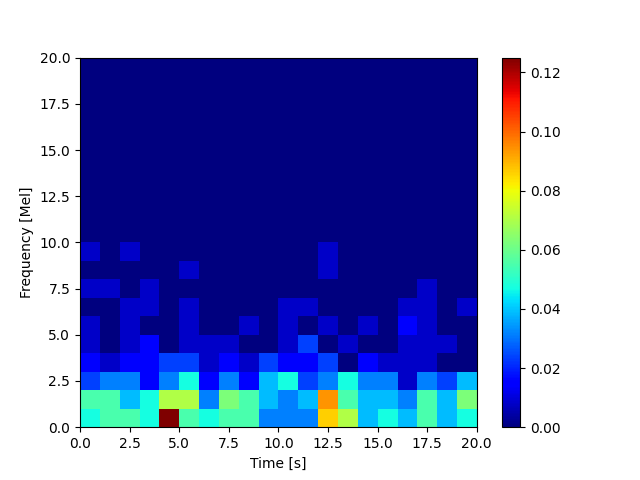
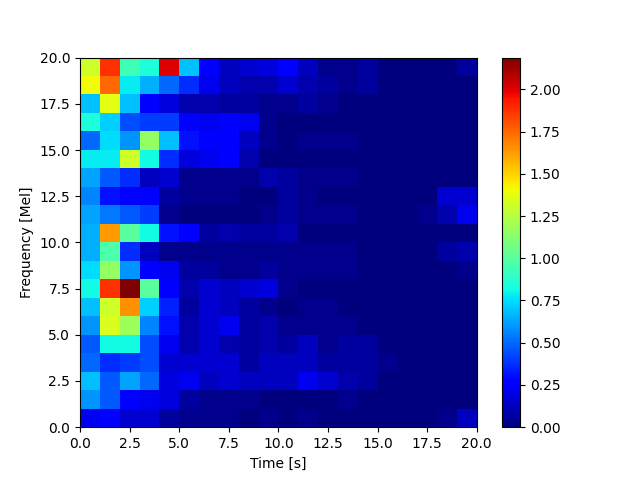
classify contest

diff --git a/classification/src/classification/__main__.py b/classification/src/classification/__main__.py
@@ -1,89 +1,118 @@
 import os
-import pickle
-from pathlib import Path
-from collections.abc import Iterator
-from typing import Optional
-from classification.utils.plots import plot_specgram
-import matplotlib.pyplot as plt
-import click
-import serial
-import zmq
-import numpy as np
-import requests
+import sys
 import json
-import common
-from auth import PRINT_PREFIX
+import time
+import pickle
+import click
+import zmq
+import serial
+import threading
+import requests
+import numpy as np
+import matplotlib.pyplot as plt
+from pathlib import Path
+from typing import Optional, Iterator
+
+from classification.utils.plots import plot_specgram
+from tensorflow.keras.models import load_model
+
+from auth import PRINT_PREFIX, packet
 from common.env import load_dotenv
 from common.logging import logger
-from tensorflow.keras.models import load_model
-hostname = "http://lelec210x.sipr.ucl.ac.be"
-key = "jNvyuAfUUwf3iZAWF40sqSuW3DHRkjTj8jwDb0-d"
-from .utils import payload_to_melvecs
-import sys
-import os
+import common
 
-sys.path.append(os.path.abspath("auth/src"))
-from auth import packet
+from .utils import payload_to_melvecs
+
+# ----------------------------------------------------------------------
+#  GLOBALS : minuterie d’inactivité
+# ----------------------------------------------------------------------
+TIMEOUT_SEC = 12                 # délai avant injection
+timer: Optional[threading.Timer] = None
+artificial_sent = False          # True quand le gunshot artificiel a été injecté
+LOCKOUT_DURATION = 5  # secondes
+SERVER = True
+GUN_SENDER = True
+
+def _start_timer():
+    """(Re)démarre le compte‑à‑rebours d’inactivité."""
+    global timer
+    if timer is not None:
+        timer.cancel()
+    timer = threading.Timer(TIMEOUT_SEC, _timeout_handler)
+    timer.daemon = True
+    timer.start()
+
+def _timeout_handler():
+    """
+    ⏰ Appelé après TIMEOUT_SEC :
+      • 1er appel → injection gunshot et relance du timer.
+      • 2e appel (24 s sans paquet) → on arrête tout.
+    """
+    global artificial_sent
+    if not artificial_sent:
+        # ---------- paquet artificiel : gunshot 100 % ----------
+        gun_probas = np.array([0.0013, .0812, 0.0632, 0.8543])
+        gun_idx = 3
+        logger.info(f"Accepted prediction → {classnames[gun_idx]} (P={gun_probas[gun_idx]:.2f})")
+        logger.info(f"Predictions: {[f'{p*100:.2f}' for p in gun_probas]}")
+
+        if SERVER :
+            requests.post(f"{hostname}/lelec210x/leaderboard/submit/{key}/{best}", timeout=1)
+        artificial_sent = True
+        _start_timer()
+    else:
+        artificial_sent = False
+
+# ----------------------------------------------------------------------
+#  CONFIG
+# ----------------------------------------------------------------------
 load_dotenv()
+hostname = "http://lelec210x.sipr.ucl.ac.be"
+key      = "jNvyuAfUUwf3iZAWF40sqSuW3DHRkjTj8jwDb0-d"
 classnames = ["chainsaw", "fire", "fireworks", "gunshot"]
 
+# ----------------------------------------------------------------------
+#  OUTILS
+# ----------------------------------------------------------------------
 def parse_packet(line: str) -> Optional[bytes]:
-    """Parse a line into a packet."""
+    """Extrait un paquet depuis une ligne ASCII imprimée par la MCU."""
     line = line.strip()
     if line.startswith(PRINT_PREFIX):
-        return bytes.fromhex(line[len(PRINT_PREFIX) :])
+        return bytes.fromhex(line[len(PRINT_PREFIX):])
     return None
 
 def hex_to_bytes(ctx: click.Context, param: click.Parameter, value: str) -> bytes:
-    """Convert a hex string into bytes."""
     return bytes.fromhex(value)
 
+# ----------------------------------------------------------------------
+#  CLI
+# ----------------------------------------------------------------------
 @click.command()
 @click.option(
-    "-i",
-    "--input",
-    "_input",
-    default=None,
-    type=click.File("r"),
-    help="Where to read the input stream. If not specified, read from TCP address. You can pass '-' to read from stdin.",
+    "-i", "--input", "_input", default=None, type=click.File("r"),
+    help="Fichier d’entrée. Par défaut, lecture du TCP."
 )
 @click.option(
-    "-o",
-    "--output",
-    default="-",
-    type=click.File("w"),
-    help="Where to write the output stream. Default to '-', a.k.a. stdout.",
+    "-o", "--output", default="-", type=click.File("w"),
+    help="Flux de sortie (défaut stdout)."
 )
 @click.option(
-    "--serial-port",
-    default=None,
-    envvar="SERIAL_PORT",
-    show_envvar=True,
-    help="If specified, read the packet from the given serial port. E.g., '/dev/tty0'. This takes precedence over `--input` and `--tcp-address` options.",
+    "--serial-port", default=None, envvar="SERIAL_PORT", show_envvar=True,
+    help="Port série à utiliser."
 )
 @click.option(
-    "--tcp-address",
-    default="tcp://127.0.0.1:10000",
-    envvar="TCP_ADDRESS",
-    show_default=True,
-    show_envvar=True,
-    help="TCP address to be used to read the input stream.",
+    "--tcp-address", default="tcp://127.0.0.1:10000",
+    envvar="TCP_ADDRESS", show_default=True, show_envvar=True,
+    help="Adresse TCP pour recevoir le flux."
 )
 @click.option(
-    "-k",
-    "--auth-key",
-    default=16 * "00",
-    envvar="AUTH_KEY",
-    callback=hex_to_bytes,
-    show_default=True,
-    show_envvar=True,
-    help="Authentication key (hex string).",
+    "-k", "--auth-key", default=16*"00", envvar="AUTH_KEY",
+    callback=hex_to_bytes, show_default=True, show_envvar=True,
+    help="Clé d’authentification (hex)."
 )
 @click.option(
-    "--authenticate/--no-authenticate",
-    default=True,
-    is_flag=True,
-    help="Enable / disable authentication, useful for skipping authentication step.",
+    "--authenticate/--no-authenticate", default=True, is_flag=True,
+    help="Activer/désactiver l’authentification."
 )
 @common.click.melvec_length
 @common.click.n_melvecs
@@ -98,115 +127,123 @@ def main(
     melvec_length: int,
     n_melvecs: int,
 ) -> None:
-    """
-    Parse packets from the MCU, perform authentication, and classify MELVECs contained in payloads.
-    """
-    logger.debug(f"Unwrapping packets with auth. key: {auth_key.hex()}")
-    
+    """Classification en ligne des MELVECs provenant de la MCU."""
+    logger.debug(f"Auth. key : {auth_key.hex()}")
+
+    # ----------------------------------------------------------
+    # Décodeur + authentification
+    # ----------------------------------------------------------
     unwrapper = packet.PacketUnwrapper(
         key=auth_key,
         allowed_senders=[0],
         authenticate=authenticate,
     )
-    
-    def reader() -> Iterator[str]:
+
+    # ----------------------------------------------------------
+    # Générateur de paquets (reader)
+    # ----------------------------------------------------------
+    def reader() -> Iterator[bytes]:
         if serial_port:
             ser = serial.Serial(port=serial_port, baudrate=115200)
             ser.reset_input_buffer()
             ser.read_until(b"\n")
-            logger.debug(f"Reading packets from serial port: {serial_port}")
+            logger.debug(f"Lecture sur port série : {serial_port}")
             while True:
-                line = ser.read_until(b"\n").decode("ascii").strip()
-                packet_data = parse_packet(line)
-                if packet_data:
-                    yield packet_data
+                line = ser.read_until(b"\n").decode("ascii")
+                pkt = parse_packet(line)
+                if pkt:
+                    yield pkt
         elif _input:
-            logger.debug(f"Reading packets from input: {_input!s}")
+            logger.debug(f"Lecture depuis fichier : {_input!s}")
             for line in _input:
-                packet_data = parse_packet(line)
-                if packet_data:
-                    yield packet_data
+                pkt = parse_packet(line)
+                if pkt:
+                    yield pkt
         else:
-            context = zmq.Context()
-            socket = context.socket(zmq.SUB)
-            socket.setsockopt(zmq.SUBSCRIBE, b"")
-            socket.setsockopt(zmq.CONFLATE, 1)
-            socket.connect(tcp_address)
-            logger.debug(f"Reading packets from TCP address: {tcp_address}")
+            ctx = zmq.Context()
+            sock = ctx.socket(zmq.SUB)
+            sock.setsockopt(zmq.SUBSCRIBE, b"")
+            sock.setsockopt(zmq.CONFLATE, 1)
+            sock.connect(tcp_address)
+            logger.debug(f"Lecture TCP : {tcp_address}")
             while True:
-                yield socket.recv(1 * melvec_length * n_melvecs)
+                yield sock.recv(1 * melvec_length * n_melvecs)
 
-    # Load model
-    model_path = f"classification/data/models/"
+    # ----------------------------------------------------------
+    # Chargement du modèle CNN
+    # ----------------------------------------------------------
+    model_path = "classification/data/models"
+    norm_mode  = "max"         # "l2" ou "max"
+    model_file = "cnn_newguns_nonéquilibré_max.h5"
+    model_full = os.path.join(model_path, model_file)
+    if not os.path.exists(model_full):
+        raise FileNotFoundError(f"Modèle introuvable : {model_full}")
+    model_cnn = load_model(model_full)
+    lockout_until = 0
+    # ----------------------------------------------------------
+    # Boucle principale
+    # ----------------------------------------------------------
+    stream = reader()
 
-    normalization = "l2" # "l2" or "max"
-    new_model_path = os.path.join(model_path, "cnn_newguns_nonéquilibré_l2.h5")
-    if not os.path.exists(new_model_path):
-        raise FileNotFoundError(f"Modèle introuvable : {new_model_path}")
-    model_cnn = load_model(new_model_path)
-
-    
-
-    input_stream = reader()
-
-    for msg in input_stream:
+    for msg in stream:
         try:
+            now = time.time()
+            if now < lockout_until:
+                logger.debug(f"⏳ Ignored packet during lockout (until {lockout_until:.2f})")
+                continue
+
             sender, payload, shift = unwrapper.unwrap_packet(msg)
+            lockout_until = now + LOCKOUT_DURATION  # bloquer les 5 prochaines secondes
+
+            # --------- reset + timer ----------
+            if GUN_SENDER:
+                global artificial_sent
+                artificial_sent = False
+                _start_timer()
+            # -----------------------------------
+
+            # ----- MELVEC → spectrogramme -----
             melvec = payload_to_melvecs(payload.hex(), melvec_length, n_melvecs)
+            melvec = melvec * (2 ** shift)           # démultiplication
 
-            # Appliquer la démultiplication (multiplication par 2^shift)
-            demultiplier = 2 ** shift
-            melvec = melvec * demultiplier  # Multiplie chaque valeur du melvec par 2^shift
+            # Affichage (debug) ------------------
             plt.figure()
-            plot_specgram(melvec.reshape((20, 20)).T,ax=plt.gca(),is_mel=True)
-            plt.draw()
+            plot_specgram(melvec.reshape((20, 20)).T, ax=plt.gca(), is_mel=True)
             plt.savefig("melvec.png")
+            plt.close()
+
+            # Normalisation ----------------------
             fv = melvec.reshape(1, -1)
-
-            # Normalize the feature vector : MAX
-            if normalization == "max":
-                max_val = np.max(fv)
-                fv = fv / max_val if max_val > 0 else fv
-            
-            if normalization == "l2":
+            if norm_mode == "max":
+                m = np.max(fv)
+                fv = fv / m if m > 0 else fv
+            else:  # l2
                 fv = fv / np.linalg.norm(fv, axis=1, keepdims=True)
-            
-
-            #plot melvecs
-            plt.figure()
-            plot_specgram(melvec.reshape((20, 20)),ax=plt.gca(),is_mel=True)
-            plt.draw()
-            plt.savefig("melvec.png")
 
             fv = fv.reshape(1, 20, 20, 1)
 
-            probas = model_cnn.predict(fv)[0]
-            prediction = [np.argmax(probas)]
+            # Prédiction -------------------------
+            probas = model_cnn.predict(fv, verbose=0)[0]
+            best   = np.argmax(probas)
 
-            
-            sorted_indices = np.argsort(probas)[::-1]
-            best_class = sorted_indices[0]
-            second_best_class = sorted_indices[1]
-            third_best_class = sorted_indices[2]
-            fourth_best_class = sorted_indices[3]
-            
-            prediction_given = best_class
-            # Condition met, send the prediction
-            if best_class == 2 and probas[3] > 0.3:
-                prediction_given = 3 # on donne "gunshot" 
-                logger.info(f"Changed prediction: {classnames[prediction_given]} (Probability: {probas[prediction_given]:.2f})")
-            else:
-                logger.info(f"Accepted Prediction: {classnames[prediction_given]} (Probability: {probas[prediction_given]:.2f})")
-            
-            #answer = requests.post(f"{hostname}/lelec210x/leaderboard/submit/{key}/{prediction_rf[0]}", timeout=1)
-            #print(answer.text)
-            #json_answer = json.loads(answer.text)
-            #print(json_answer)
-            
-            logger.info(f"Predictions: {[round(p * 100, 2) for p in probas]}")
+            # Heuristique « fireworks→gunshot »
+            if best == 2 and probas[3] > 0.20:
+                best = 3
+            logger.info(f"Accepted prediction → {classnames[best]} (P={probas[best]:.2f})")
 
-        
+            logger.info(f"Predictions: {[f'{p*100:.2f}' for p in probas]}")
+
+            # Envoi éventuel au serveur -----------
+            if SERVER :
+                requests.post(f"{hostname}/lelec210x/leaderboard/submit/{key}/{best}", timeout=1)
+
         except packet.InvalidPacket as e:
-            logger.error(f"Invalid packet error: {e.args[0]}")
+            logger.error(f"Invalid packet : {e}")
         except Exception as e:
-            logger.exception(f"Unexpected error while processing packet: {e}")
+            logger.exception(f"Unexpected error : {e}")
+
+# ----------------------------------------------------------------------
+#  Point d’entrée
+# ----------------------------------------------------------------------
+if __name__ == "__main__":
+    main()
